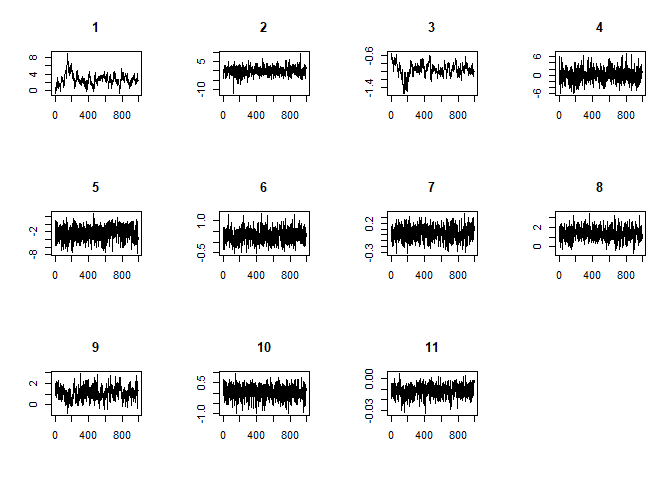
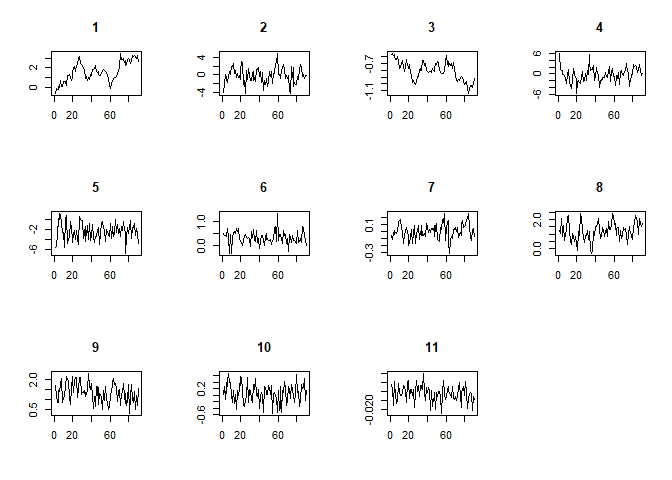
nfunctions

diff --git a/README.md b/README.md
@@ -3,7 +3,7 @@
 
 ## The `BayesMFSurv` package
 
-*Minnie M. Joo, Sergio Bejar, Nicolas Schmidt, Bumba
+*Minnie M. Joo, Nicolas Schmidt, Sergio Bejar Bumba
 Mukherjee*
 
 <!-- badges: start -->
@@ -38,20 +38,12 @@ remotes::install_github("Nicolas-Schmidt/BayesMFSurv")
 
 ## Functions
 
-| Function                      | Description                                                                                                                                                                     |
-| ----------------------------- | ------------------------------------------------------------------------------------------------------------------------------------------------------------------------------- |
-| `mfsurv`                      | fits a parametric Bayesian MF model via Markov Chain Monte Carlo (MCMC) to estimate the probability of misclassification in the first stage and the hazard in the second stage. |
-| `stats`                       | a function to calculate the deviance information criterion (DIC) and the log-likelihood for fitted model objects of class mfsurv or mcmcsurv                                    |
-| `summary`                     | returns a summary of a mfsurv or mcmcsurv object via `coda::summary.mcmc`                                                                                                       |
-| `betas.post2`                 | log-posterior distribution of betas with pth element fixed as betas.p                                                                                                           |
-| `betas.slice.sampling2`       | slice sampling for betas                                                                                                                                                        |
-| `univ.betas.slice.sampling2`  | univariate slice sampling for betas.p                                                                                                                                           |
-| `gammas.post2`                | log-posterior distribution of gammas with pth element fixed as gammas.p                                                                                                         |
-| `gammas.slice.sampling2`      | slice sampling for gammas                                                                                                                                                       |
-| `univ.gammas.slice.sampling2` | univariate slice sampling for gammas.p                                                                                                                                          |
-| `lambda.post2`                | log-posterior distribution of lambda                                                                                                                                            |
-| `lambda.slice.sampling2`      | univariate slice sampling for lambda                                                                                                                                            |
-| `mcmcsurv`                    | estimates a Bayesian Exponential or Weibull survival model via Markov Chain Monte Carlo (MCMC)                                                                                  |
+| Function   | Description                                                                                                                                                                     |
+| ---------- | ------------------------------------------------------------------------------------------------------------------------------------------------------------------------------- |
+| `mfsurv`   | fits a parametric Bayesian MF model via Markov Chain Monte Carlo (MCMC) to estimate the probability of misclassification in the first stage and the hazard in the second stage. |
+| `mcmcsurv` | estimates a Bayesian Exponential or Weibull survival model via Markov Chain Monte Carlo (MCMC)                                                                                  |
+| `stats`    | a function to calculate the deviance information criterion (DIC) and the log-likelihood for fitted model objects of class mfsurv or mcmcsurv                                    |
+| `summary`  | returns a summary of a mfsurv or mcmcsurv object via `coda::summary.mcmc`                                                                                                       |
 
 ### Example
 
@@ -158,60 +150,59 @@ summary(model1, parameter = c("betas"))
 
 ``` r
 model2 <- mcmcsurv(Y = Y, Y0 = Y0, C =  C,  X = X, 
-                   N = 5000, 
+                   N = 500, 
                    burn = 50, 
                    thin = 5, 
                    w = c(0.5, 0.5, 0.5),
                    m = 10, 
                    form = "Weibull")
-#> [1] 5000
 ```
 
 ``` r
 stats(model2)
 #> $DIC
-#> [1] -931.7586
+#> [1] -990.6388
 #> 
 #> $Loglik
-#> [1] 406.9104
+#> [1] 437.1352
 
 summary(model2, parameter = c("betas"))
 #> 
-#> Iterations = 1:990
+#> Iterations = 1:90
 #> Thinning interval = 1 
 #> Number of chains = 1 
-#> Sample size per chain = 990 
+#> Sample size per chain = 90 
 #> 
 #> 1. Empirical mean and standard deviation for each variable,
 #>    plus standard error of the mean:
 #> 
-#>               Mean       SD  Naive SE Time-series SE
-#> X1         2.68471 1.314732 0.0417849      0.2507437
-#> Xcalinv   -0.07245 2.116387 0.0672632      0.1179179
-#> Xlnlevel  -0.95310 0.155614 0.0049457      0.0273686
-#> Xcalileve  0.04172 2.001157 0.0636009      0.1020426
-#> Xnecon    -2.35045 1.742575 0.0553827      0.0806998
-#> Xpresi     0.29023 0.283431 0.0090080      0.0094671
-#> Xtag       0.03425 0.113504 0.0036074      0.0050411
-#> Xrel       1.38129 0.621695 0.0197588      0.0327997
-#> Xethn      1.09136 0.576131 0.0183107      0.0558847
-#> Xprevdem   0.02767 0.303783 0.0096549      0.0118986
-#> Xopenc    -0.01128 0.005408 0.0001719      0.0003426
+#>                Mean       SD  Naive SE Time-series SE
+#> X1         1.578889 1.003823 0.1058122      0.4419339
+#> Xcalinv   -0.159537 1.715221 0.1808001      0.2209437
+#> Xlnlevel  -0.803092 0.137091 0.0144506      0.0564542
+#> Xcalileve -0.237241 2.015778 0.2124816      0.3347862
+#> Xnecon    -2.453700 1.658339 0.1748043      0.1748043
+#> Xpresi     0.310840 0.254532 0.0268300      0.0268300
+#> Xtag       0.005429 0.105255 0.0110948      0.0168405
+#> Xrel       1.201831 0.596156 0.0628403      0.1096212
+#> Xethn      1.337654 0.465448 0.0490626      0.0671351
+#> Xprevdem   0.065832 0.283995 0.0299357      0.0299357
+#> Xopenc    -0.011033 0.004427 0.0004666      0.0004666
 #> 
 #> 2. Quantiles for each variable:
 #> 
-#>               2.5%      25%      50%       75%     97.5%
-#> X1         0.32384  1.88424  2.58445  3.361645  6.006567
-#> Xcalinv   -4.17962 -1.34156 -0.03877  1.287575  4.095080
-#> Xlnlevel  -1.33382 -1.03360 -0.94671 -0.857819 -0.674370
-#> Xcalileve -4.01793 -1.19093  0.06782  1.290186  4.019956
-#> Xnecon    -6.10955 -3.45737 -2.24469 -1.078924  0.605109
-#> Xpresi    -0.25719  0.11335  0.28444  0.465635  0.870440
-#> Xtag      -0.19654 -0.03528  0.03904  0.112968  0.246827
-#> Xrel       0.12191  0.96021  1.36329  1.817703  2.555926
-#> Xethn     -0.05349  0.70977  1.07590  1.468425  2.185599
-#> Xprevdem  -0.62089 -0.15184  0.06012  0.241104  0.572129
-#> Xopenc    -0.02205 -0.01460 -0.01102 -0.007355 -0.001885
+#>              2.5%      25%       50%       75%     97.5%
+#> X1        -0.2014  0.86487  1.510504  2.350857  3.248243
+#> Xcalinv   -3.9800 -1.24104 -0.223195  0.966644  2.787786
+#> Xlnlevel  -1.0665 -0.89645 -0.796591 -0.699316 -0.569890
+#> Xcalileve -3.8423 -1.63756 -0.160260  1.043486  3.289683
+#> Xnecon    -5.5577 -3.50064 -2.510662 -1.449178  0.713268
+#> Xpresi    -0.2274  0.16517  0.298276  0.441525  0.749105
+#> Xtag      -0.1724 -0.06625  0.009062  0.070856  0.185798
+#> Xrel      -0.1265  0.86508  1.211858  1.517927  2.292984
+#> Xethn      0.5109  1.01230  1.349959  1.678986  2.128908
+#> Xprevdem  -0.5338 -0.09846  0.079818  0.246366  0.577457
+#> Xopenc    -0.0206 -0.01326 -0.010692 -0.008122 -0.003939
 ```
 
 <img src="man/figures/README-unnamed-chunk-8-1.png" width="100%" /><img src="man/figures/README-unnamed-chunk-8-2.png" width="100%" />
